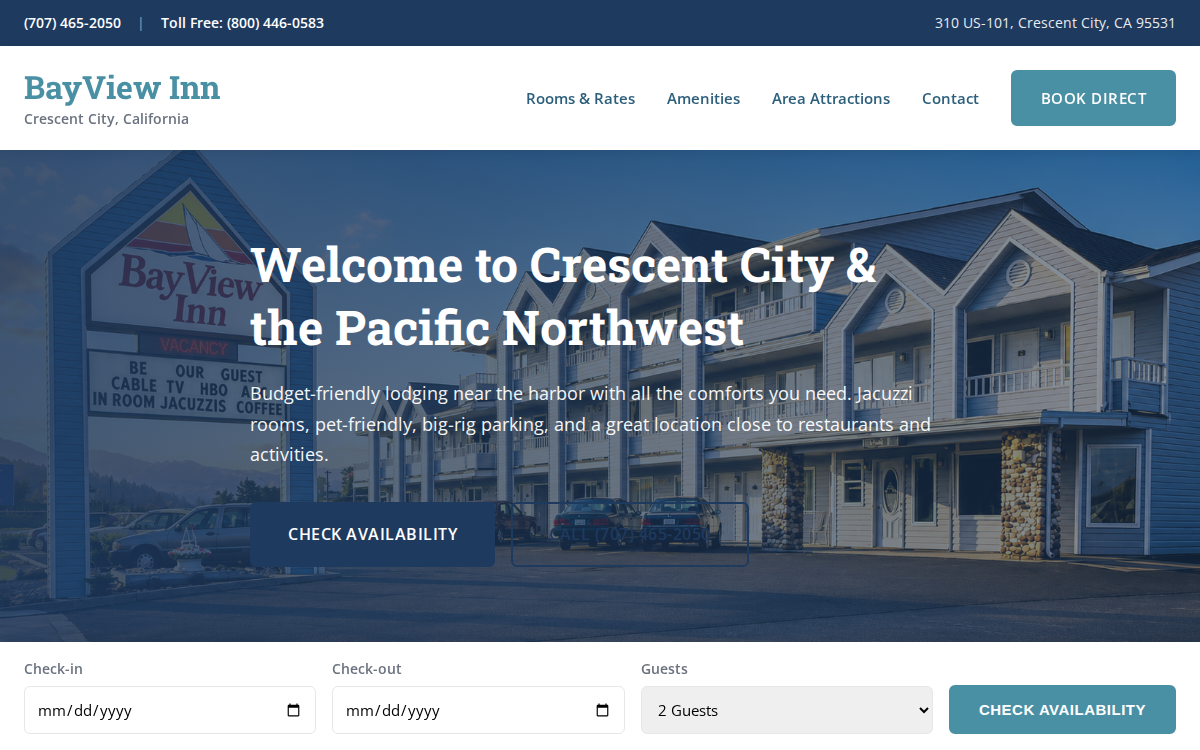
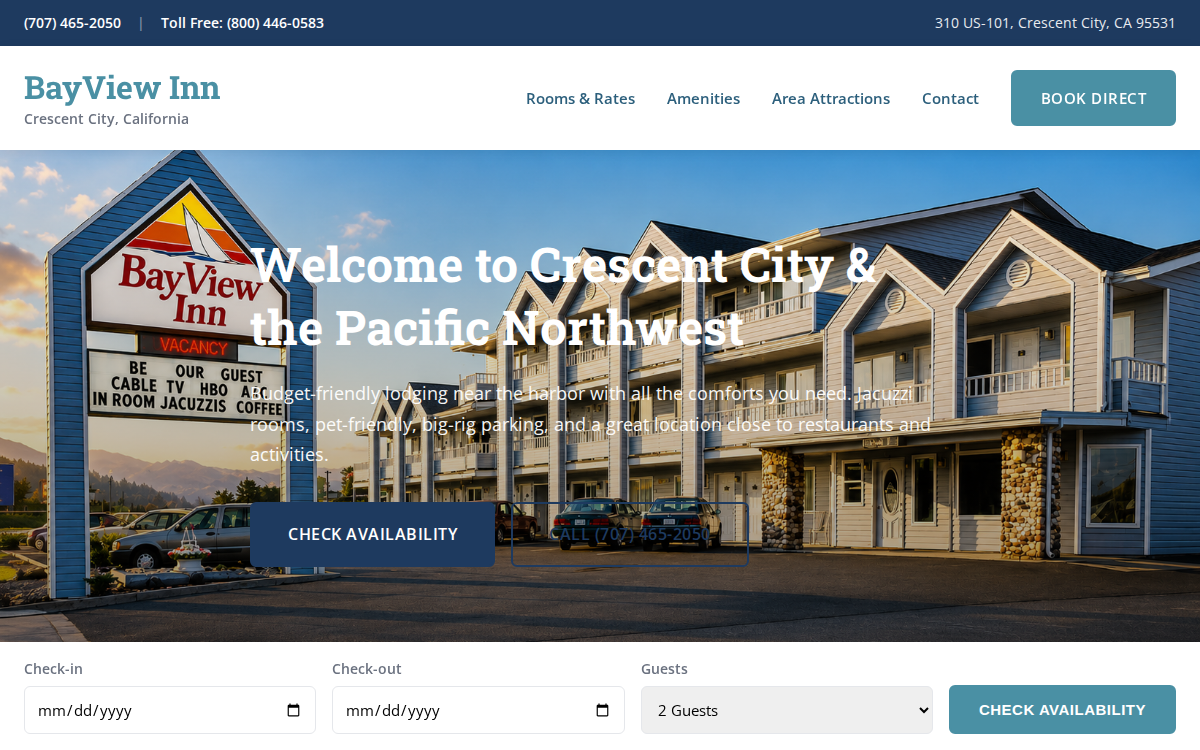
Redesign 8 hotel concepts with owner feedback
- Add real logos for all hotels (windmill icon for East Hampton, Casa Rubio logo, Requa Inn logo, Ship Harbor logo, Duplin Inn logo)
- Use bright, beautiful hero images: East Hampton pool, Casa Rubio ocean view, Requa river view, Pheasant Park waterfront, Bayview exterior, Ship Harbor entrance, Duplin exterior
- Remove dark overlays - changed to subtle bottom gradients for text readability
- Fix booking bar visibility and styling (East Hampton button now clearly visible)
- Regenerate all preview.png and before-after.png screenshots with booking bar visible
- Create tools/screenshot.py for automated screenshot generation

Hotels updated:
- east-hampton-house-resort
- casa-rubio
- sierra-woods-lodge (no logo found)
- requa-inn
- pheasant-park-resort (no logo found)
- bayview-inn-crescent-city (no logo found)
- ship-harbor-inn
- duplin-inn

diff --git a/requa-inn/index.html b/requa-inn/index.html
@@ -19,7 +19,9 @@
   <header class="masthead" data-header>
     <div class="content-width">
       <div class="inn-identity">
-        <h1 class="inn-name">The Historic Requa Inn</h1>
+        <a href="#home" style="display: inline-block;">
+          <img src="img/logo.png" alt="The Historic Requa Inn" style="height: 50px; width: auto; margin-bottom: 0.5rem;">
+        </a>
         <p class="inn-location">Klamath, California</p>
       </div>
       <nav class="navigation">
@@ -38,7 +40,7 @@
   <main>
     <section class="hero-area">
       <figure class="hero-figure">
-        <img src="img/hero-exterior.jpg" alt="The Historic Requa Inn" width="1600" height="1067">
+        <img src="img/hero-view.jpg" alt="The Historic Requa Inn" width="1920" height="1080">
       </figure>
       <div class="hero-message">
         <div class="content-width">

diff --git a/pheasant-park-resort/index.html b/pheasant-park-resort/index.html
@@ -18,7 +18,9 @@
 <body>
   <header class="header" data-header>
     <div class="container header__inner">
-      <a href="#home" class="header__logo">Pheasant Park Resort</a>
+      <a href="#home" class="header__logo">
+        <span>Pheasant Park Resort</span>
+      </a>
       <nav class="header__nav">
         <a href="#suites">Suites</a>
         <a href="#amenities">Amenities</a>
@@ -35,7 +37,7 @@
   <main>
     <section class="hero" id="home">
       <picture class="hero__media">
-        <img src="img/hero-aerial.jpg" alt="Aerial view of Pheasant Park Resort in Sister Bay, Door County" width="1920" height="1080">
+        <img src="img/hero-banner.webp" alt="Aerial view of Pheasant Park Resort in Sister Bay, Door County" width="1920" height="1080">
       </picture>
       <div class="hero__content">
         <div class="container">

diff --git a/casa-rubio/index.html b/casa-rubio/index.html
@@ -18,7 +18,9 @@
 <body>
   <nav class="nav" data-nav>
     <div class="nav__inner">
-      <a href="#home" class="nav__logo">Casa Rubio</a>
+      <a href="#home" class="nav__logo">
+        <img src="img/logo.png" alt="Casa Rubio" class="nav__logo-img">
+      </a>
       <div class="nav__links">
         <a href="#units">Units</a>
         <a href="#experience">Experience</a>
@@ -35,7 +37,7 @@
   <main>
     <header class="masthead" id="home">
       <div class="masthead__media">
-        <img src="img/hero-ocean-view.jpg" alt="Ocean view from Casa Rubio" width="1920" height="340">
+        <img src="img/hero-bright.jpg" alt="Ocean view from Casa Rubio" width="1920" height="340">
       </div>
       <div class="masthead__content">
         <h1 class="masthead__title">Oceanfront Lodging on the Pacific Coast</h1>

diff --git a/bayview-inn-crescent-city/index.html b/bayview-inn-crescent-city/index.html
@@ -30,7 +30,9 @@
   <header class="header" data-header>
     <div class="wrapper header__inner">
       <div class="header__brand">
-        <h1 class="header__name">BayView Inn</h1>
+        <h1 class="header__name">
+          <span>BayView Inn</span>
+        </h1>
         <p class="header__tagline">Crescent City, California</p>
       </div>
       <nav class="header__nav">
@@ -49,7 +51,7 @@
   <main>
     <section class="hero">
       <div class="hero__image">
-        <img src="img/hero-exterior-day.jpg" alt="Bayview Inn exterior on US Highway 101" width="1643" height="958">
+        <img src="img/hero-exterior.png" alt="Bayview Inn exterior on US Highway 101" width="1643" height="958">
       </div>
       <div class="hero__overlay"></div>
       <div class="wrapper hero__content">

diff --git a/east-hampton-house-resort/index.html b/east-hampton-house-resort/index.html
@@ -18,7 +18,9 @@
 <body>
   <header class="header" data-header>
     <div class="container">
-      <a href="#home" class="logo">East Hampton House</a>
+      <a href="#home" class="logo">
+        <img src="img/logo.png" alt="East Hampton House" class="logo-img">
+      </a>
       <nav class="nav">
         <a href="#accommodations">Accommodations</a>
         <a href="#amenities">Amenities</a>
@@ -35,7 +37,7 @@
   <main>
     <section class="hero" id="home">
       <div class="hero__image">
-        <img src="img/hero-exterior.jpg" alt="East Hampton House Resort exterior" width="1920" height="1080">
+        <img src="img/pool-patio.jpg" alt="East Hampton House Resort pool" width="1920" height="1080">
       </div>
       <div class="hero__content">
         <div class="container">

diff --git a/east-hampton-house-resort/css/style.css b/east-hampton-house-resort/css/style.css
@@ -145,6 +145,13 @@ img {
   font-weight: 700;
   color: var(--navy);
   letter-spacing: 0.5px;
+  display: flex;
+  align-items: center;
+}
+
+.logo-img {
+  height: 40px;
+  width: auto;
 }
 
 .nav {
@@ -208,7 +215,7 @@ img {
   content: '';
   position: absolute;
   inset: 0;
-  background: linear-gradient(180deg, rgba(26,58,82,0.3) 0%, rgba(26,58,82,0.6) 100%);
+  background: linear-gradient(180deg, transparent 0%, rgba(0,0,0,0.4) 100%);
 }
 
 .hero__content {
@@ -642,6 +649,9 @@ img {
 .booking-bar .btn {
   padding: 0.75rem 2rem;
   white-space: nowrap;
+  background: var(--navy);
+  color: var(--white);
+  font-weight: 600;
 }
 
 /* Responsive */

diff --git a/casa-rubio/css/style.css b/casa-rubio/css/style.css
@@ -122,6 +122,13 @@ img {
   font-weight: 600;
   color: var(--ocean);
   font-style: italic;
+  display: flex;
+  align-items: center;
+}
+
+.nav__logo-img {
+  height: 35px;
+  width: auto;
 }
 
 .nav__links {
@@ -169,12 +176,13 @@ img {
 .masthead {
   margin-top: 80px;
   background: var(--white);
+  padding-bottom: 80px;
 }
 
 .masthead__media {
-  height: 60vh;
-  min-height: 400px;
-  max-height: 600px;
+  height: 70vh;
+  min-height: 500px;
+  max-height: 700px;
   overflow: hidden;
 }
 

diff --git a/ship-harbor-inn/index.html b/ship-harbor-inn/index.html
@@ -30,7 +30,7 @@
   <nav class="main-nav" data-nav>
     <div class="wrap">
       <div class="brand-mark">
-        <h1>Ship Harbor Inn</h1>
+        <img src="img/logo.png" alt="Ship Harbor Inn" style="height: 60px; width: auto; display: block; margin-bottom: 0.25rem;">
         <span class="location">Anacortes, Washington</span>
       </div>
       <div class="nav-menu">

diff --git a/duplin-inn/index.html b/duplin-inn/index.html
@@ -18,7 +18,9 @@
 <body>
   <header class="header" data-header>
     <div class="wrapper">
-      <div class="logo">The Duplin Inn</div>
+      <div class="logo">
+        <img src="img/logo.png" alt="The Duplin Inn" style="height: 45px; width: auto;">
+      </div>
       <nav class="nav">
         <a href="#rooms">Rooms</a>
         <a href="#location">Location</a>

diff --git a/sierra-woods-lodge/index.html b/sierra-woods-lodge/index.html
@@ -18,7 +18,9 @@
 <body>
   <nav class="navbar" data-navbar>
     <div class="container">
-      <a href="#home" class="brand">Sierra Woods Lodge</a>
+      <a href="#home" class="brand">
+        <span>Sierra Woods Lodge</span>
+      </a>
       <div class="menu">
         <a href="#rooms">Rooms</a>
         <a href="#dining">Dining</a>

diff --git a/sierra-woods-lodge/css/style.css b/sierra-woods-lodge/css/style.css
@@ -181,7 +181,7 @@ img {
 .hero-overlay {
   position: absolute;
   inset: 0;
-  background: linear-gradient(135deg, rgba(30,58,40,0.7) 0%, rgba(45,90,61,0.5) 100%);
+  background: linear-gradient(180deg, transparent 0%, rgba(0,0,0,0.3) 100%);
 }
 
 .hero-text {

diff --git a/pheasant-park-resort/css/style.css b/pheasant-park-resort/css/style.css
@@ -203,7 +203,7 @@ img {
   left: 0;
   right: 0;
   bottom: 0;
-  background: linear-gradient(to bottom, rgba(26, 77, 46, 0.3), rgba(26, 77, 46, 0.7));
+  background: linear-gradient(180deg, transparent 0%, rgba(0,0,0,0.35) 100%);
 }
 
 .hero__content {
